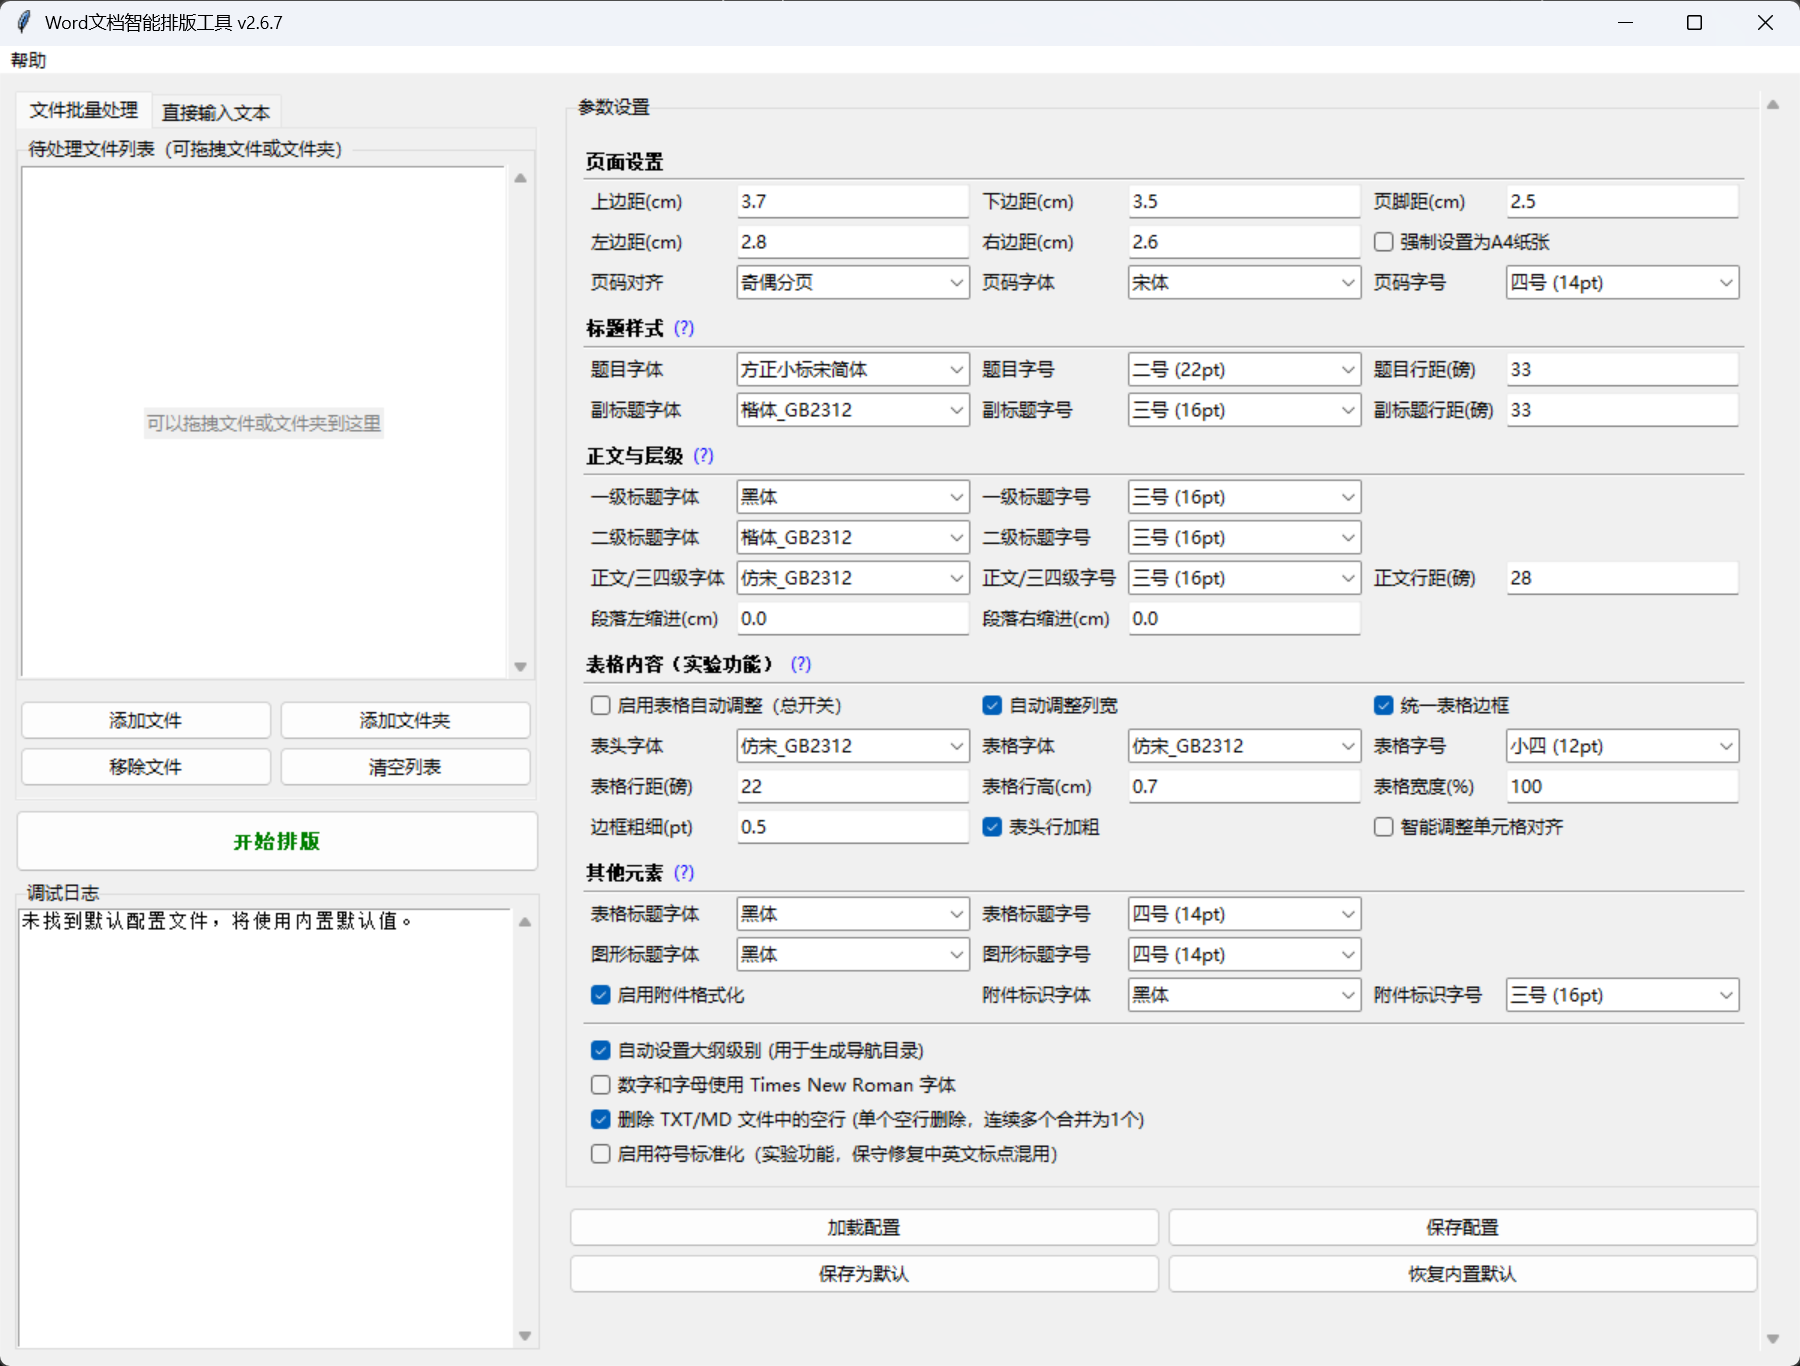
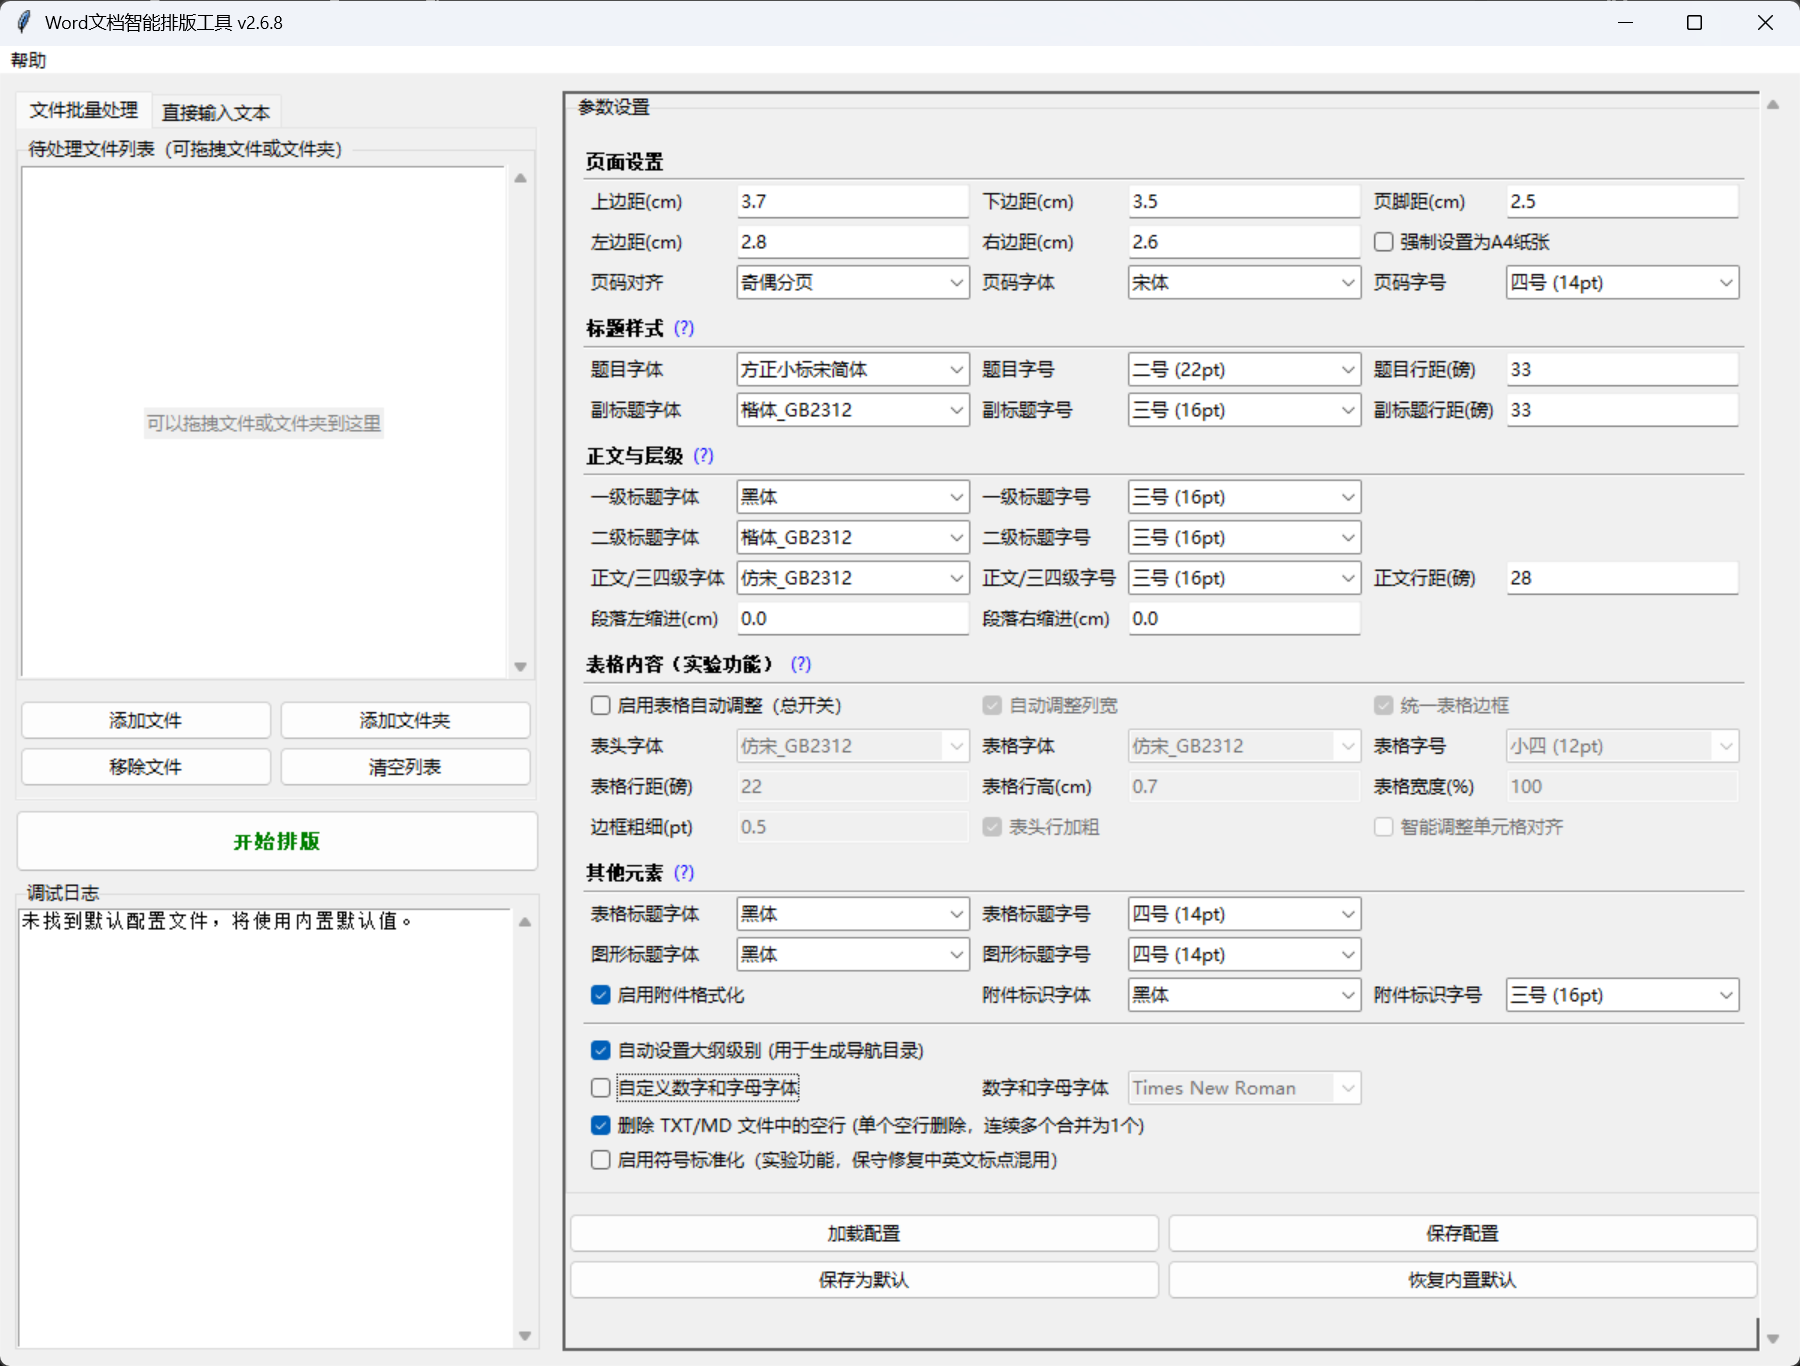
Add files via upload

diff --git a/wfp.py b/wfp.py
@@ -1,5 +1,5 @@
 import tkinter as tk
-from tkinter import ttk, filedialog, messagebox, scrolledtext, Menu
+from tkinter import ttk, filedialog, messagebox, scrolledtext, Menu, font as tkfont
 import json
 import os
 import re
@@ -570,7 +570,8 @@ class WordProcessor:
         rFonts = rPr.get_or_add_rFonts()
         rFonts.set(qn('w:eastAsia'), font_name)
         # 根据配置决定西文字体（数字、字母）
-        en_font = 'Times New Roman' if self.config.get('use_times_new_roman', False) else font_name
+        en_font = self.config.get('english_font') if self.config.get('use_custom_english_font', False) else font_name
+        en_font = en_font or font_name
         run.font.name = en_font
         rFonts.set(qn('w:ascii'), en_font)
         rFonts.set(qn('w:hAnsi'), en_font)
@@ -1491,7 +1492,7 @@ class WordProcessor:
 class WordFormatterGUI:
     def __init__(self, master):
         self.master = master
-        master.title("Word文档智能排版工具 v2.6.7")
+        master.title("Word文档智能排版工具 v2.6.8")
         master.geometry("1200x860")
         master.minsize(1200, 860)
 
@@ -1514,7 +1515,7 @@ class WordFormatterGUI:
             'title_line_spacing': 33, 'subtitle_line_spacing': 33,
             'left_indent_cm': 0.0, 'right_indent_cm': 0.0,
             'set_outline': True, 'enable_attachment_formatting': True,
-            'force_a4': False, 'use_times_new_roman': False,
+            'force_a4': False, 'use_custom_english_font': False, 'english_font': 'Times New Roman',
             'remove_blank_lines': True, 'normalize_punctuation': False,
             'enable_table_formatting': False, 'table_header_font': '仿宋_GB2312',
             'table_font': '仿宋_GB2312',
@@ -1523,18 +1524,25 @@ class WordFormatterGUI:
             'table_header_bold': True, 'table_smart_align': False,
             'table_unified_borders': True, 'table_border_size_pt': 0.5
         }
-        self.font_options = {
+        self.font_separator = '── 已安装字体 ──'
+        self.installed_fonts = self._get_installed_fonts()
+        preset_font_options = {
             'title': ['方正小标宋简体', '方正小标宋_GBK', '华文中宋'], 'h1': ['黑体', '方正黑体_GBK', '方正黑体简体', '华文黑体'],
             'h2': ['楷体_GB2312', '方正楷体_GBK', '楷体', '方正楷体简体', '华文楷体'],
             'body': ['仿宋_GB2312', '方正仿宋_GBK', '仿宋', '方正仿宋简体', '华文仿宋'], 'page_number': ['宋体', 'Times New Roman'],
             'table_caption': ['黑体', '宋体', '仿宋_GB2312'], 'figure_caption': ['黑体', '宋体', '仿宋_GB2312'], 'attachment': ['黑体', '宋体', '仿宋_GB2312'],
             'subtitle': ['楷体_GB2312', '方正楷体_GBK', '楷体', '方正楷体简体', '华文楷体'],
-            'table': ['仿宋_GB2312', '宋体', '黑体', '楷体_GB2312', '方正仿宋_GBK', '仿宋']
+            'table': ['仿宋_GB2312', '宋体', '黑体', '楷体_GB2312', '方正仿宋_GBK', '仿宋'],
+            'english': ['Times New Roman']
+        }
+        self.font_options = {
+            key: self._with_installed_fonts(options)
+            for key, options in preset_font_options.items()
         }
         self.set_outline_var = tk.BooleanVar(value=self.default_params['set_outline'])
         self.enable_attachment_var = tk.BooleanVar(value=self.default_params['enable_attachment_formatting'])
         self.force_a4_var = tk.BooleanVar(value=self.default_params['force_a4'])
-        self.use_times_new_roman_var = tk.BooleanVar(value=self.default_params['use_times_new_roman'])
+        self.use_custom_english_font_var = tk.BooleanVar(value=self.default_params['use_custom_english_font'])
         self.remove_blank_lines_var = tk.BooleanVar(value=self.default_params['remove_blank_lines'])
         self.normalize_punctuation_var = tk.BooleanVar(value=self.default_params['normalize_punctuation'])
         self.enable_table_var = tk.BooleanVar(value=self.default_params['enable_table_formatting'])
@@ -1543,6 +1551,8 @@ class WordFormatterGUI:
         self.table_smart_align_var = tk.BooleanVar(value=self.default_params['table_smart_align'])
         self.table_unified_borders_var = tk.BooleanVar(value=self.default_params['table_unified_borders'])
         self.entries = {}
+        self.attachment_option_widgets = []
+        self.table_option_widgets = []
         
         self.default_config_path = "default_config.json"
         
@@ -1551,6 +1561,95 @@ class WordFormatterGUI:
         self.load_initial_config()
 
         self.master.after(250, self.set_initial_pane_position)
+
+    def _get_installed_fonts(self):
+        try:
+            fonts = tkfont.families(self.master)
+        except tk.TclError:
+            return []
+
+        unique_fonts = {
+            font.strip()
+            for font in fonts
+            if font and font.strip() and not font.strip().startswith('@')
+        }
+        return sorted(unique_fonts, key=str.casefold)
+
+    def _with_installed_fonts(self, preset_fonts):
+        options = []
+        seen = set()
+        for font in preset_fonts:
+            normalized = font.casefold()
+            if normalized not in seen:
+                options.append(font)
+                seen.add(normalized)
+
+        installed_fonts = [
+            font for font in self.installed_fonts
+            if font.casefold() not in seen
+        ]
+        if installed_fonts:
+            options.append(self.font_separator)
+            options.extend(installed_fonts)
+        return options
+
+    def _update_english_font_state(self):
+        combo = self.entries.get('english_font')
+        if combo:
+            combo.configure(state='normal' if self.use_custom_english_font_var.get() else 'disabled')
+
+    def _set_widgets_enabled(self, widgets, enabled):
+        for widget in widgets:
+            if not hasattr(widget, '_enabled_state'):
+                try:
+                    enabled_state = widget.cget('state') or 'normal'
+                    widget._enabled_state = 'normal' if enabled_state == 'disabled' else enabled_state
+                except tk.TclError:
+                    widget._enabled_state = 'normal'
+            try:
+                widget.configure(state=widget._enabled_state if enabled else 'disabled')
+            except tk.TclError:
+                pass
+
+    def _update_attachment_state(self):
+        self._set_widgets_enabled(self.attachment_option_widgets, self.enable_attachment_var.get())
+
+    def _update_table_state(self):
+        self._set_widgets_enabled(self.table_option_widgets, self.enable_table_var.get())
+
+    def _enable_dependent_widgets_for_config_load(self):
+        self._set_widgets_enabled(self.attachment_option_widgets, True)
+        self._set_widgets_enabled(self.table_option_widgets, True)
+        english_font_combo = self.entries.get('english_font')
+        if english_font_combo:
+            english_font_combo.configure(state='normal')
+
+    def _set_widget_value(self, widget, value, is_size=False):
+        previous_state = None
+        try:
+            previous_state = widget.cget('state')
+            if previous_state == 'disabled':
+                widget.configure(state=getattr(widget, '_enabled_state', 'normal'))
+        except tk.TclError:
+            previous_state = None
+
+        try:
+            if is_size and isinstance(widget, ttk.Combobox):
+                display_val = self.font_size_map_rev.get(value, str(value))
+                widget.set(display_val)
+            elif isinstance(widget, ttk.Combobox):
+                widget.set(value)
+                if value != self.font_separator:
+                    widget._last_valid_value = value
+            else:
+                widget.delete(0, tk.END)
+                widget.insert(0, str(value))
+        finally:
+            if previous_state == 'disabled':
+                try:
+                    widget.configure(state='disabled')
+                except tk.TclError:
+                    pass
 
     def set_initial_pane_position(self):
         # 获取窗口总宽度，设置左侧占约30%
@@ -1667,6 +1766,22 @@ class WordFormatterGUI:
             state = 'readonly' if readonly else 'normal'
             combo = ttk.Combobox(params_frame, values=opts, state=state, width=15)
             combo.grid(row=r, column=c+1, sticky=tk.EW, padx=3, pady=2)
+            if self.font_separator in opts:
+                combo._last_valid_value = ''
+
+                def remember_font_value(event, combo=combo):
+                    current = combo.get().strip()
+                    if current and current != self.font_separator:
+                        combo._last_valid_value = current
+
+                def reject_font_separator(event, combo=combo):
+                    if combo.get() == self.font_separator:
+                        combo.set(getattr(combo, '_last_valid_value', ''))
+                    else:
+                        remember_font_value(event, combo)
+
+                combo.bind("<FocusIn>", remember_font_value, add="+")
+                combo.bind("<<ComboboxSelected>>", reject_font_separator, add="+")
             self.entries[var_name] = combo
             return combo
 
@@ -1676,7 +1791,7 @@ class WordFormatterGUI:
             combo.grid(row=r, column=c+1, sticky=tk.EW, padx=3, pady=2)
             self.entries[var_name] = combo
             return combo
-        
+
         def create_section_header(text, help_text, r):
             header_frame = ttk.Frame(params_frame)
             header_frame.grid(row=r, column=0, columnspan=6, sticky='ew', pady=(6, 2))
@@ -1740,21 +1855,32 @@ class WordFormatterGUI:
             "• 默认保留单元格原始对齐方式；勾选智能对齐后，表头/序号/短文本居中，数字靠右，长文本靠左。"
         )
         row = create_section_header("表格内容（实验功能）", table_help, row)
-        ttk.Checkbutton(params_frame, text="启用表格自动调整（总开关）", variable=self.enable_table_var).grid(row=row, column=0, columnspan=2, sticky=tk.W, padx=3, pady=2)
-        ttk.Checkbutton(params_frame, text="自动调整列宽", variable=self.table_auto_col_width_var).grid(row=row, column=2, columnspan=2, sticky=tk.W, padx=3, pady=2)
-        ttk.Checkbutton(params_frame, text="统一表格边框", variable=self.table_unified_borders_var).grid(row=row, column=4, columnspan=2, sticky=tk.W, padx=3, pady=2)
+        ttk.Checkbutton(params_frame, text="启用表格自动调整（总开关）", variable=self.enable_table_var, command=self._update_table_state).grid(row=row, column=0, columnspan=2, sticky=tk.W, padx=3, pady=2)
+        table_auto_col_width_check = ttk.Checkbutton(params_frame, text="自动调整列宽", variable=self.table_auto_col_width_var)
+        table_auto_col_width_check.grid(row=row, column=2, columnspan=2, sticky=tk.W, padx=3, pady=2)
+        table_unified_borders_check = ttk.Checkbutton(params_frame, text="统一表格边框", variable=self.table_unified_borders_var)
+        table_unified_borders_check.grid(row=row, column=4, columnspan=2, sticky=tk.W, padx=3, pady=2)
         row += 1
-        create_combo("表头字体", 'table_header_font', self.font_options['table'], row, 0, readonly=False)
-        create_combo("表格字体", 'table_font', self.font_options['table'], row, 2, readonly=False)
-        create_font_size_combo("表格字号", 'table_size', row, 4)
+        table_header_font_combo = create_combo("表头字体", 'table_header_font', self.font_options['table'], row, 0, readonly=False)
+        table_font_combo = create_combo("表格字体", 'table_font', self.font_options['table'], row, 2, readonly=False)
+        table_size_combo = create_font_size_combo("表格字号", 'table_size', row, 4)
         row += 1
-        create_entry("表格行距(磅)", 'table_line_spacing', row, 0)
-        create_entry("表格行高(cm)", 'table_row_height_cm', row, 2)
-        create_entry("表格宽度(%)", 'table_width_percent', row, 4)
+        table_line_spacing_entry = create_entry("表格行距(磅)", 'table_line_spacing', row, 0)
+        table_row_height_entry = create_entry("表格行高(cm)", 'table_row_height_cm', row, 2)
+        table_width_percent_entry = create_entry("表格宽度(%)", 'table_width_percent', row, 4)
         row += 1
-        create_entry("边框粗细(pt)", 'table_border_size_pt', row, 0)
-        ttk.Checkbutton(params_frame, text="表头行加粗", variable=self.table_header_bold_var).grid(row=row, column=2, columnspan=2, sticky=tk.W, padx=3, pady=2)
-        ttk.Checkbutton(params_frame, text="智能调整单元格对齐", variable=self.table_smart_align_var).grid(row=row, column=4, columnspan=2, sticky=tk.W, padx=3, pady=2)
+        table_border_size_entry = create_entry("边框粗细(pt)", 'table_border_size_pt', row, 0)
+        table_header_bold_check = ttk.Checkbutton(params_frame, text="表头行加粗", variable=self.table_header_bold_var)
+        table_header_bold_check.grid(row=row, column=2, columnspan=2, sticky=tk.W, padx=3, pady=2)
+        table_smart_align_check = ttk.Checkbutton(params_frame, text="智能调整单元格对齐", variable=self.table_smart_align_var)
+        table_smart_align_check.grid(row=row, column=4, columnspan=2, sticky=tk.W, padx=3, pady=2)
+        self.table_option_widgets = [
+            table_auto_col_width_check, table_unified_borders_check,
+            table_header_font_combo, table_font_combo, table_size_combo,
+            table_line_spacing_entry, table_row_height_entry, table_width_percent_entry,
+            table_border_size_entry, table_header_bold_check, table_smart_align_check
+        ]
+        self._update_table_state()
         row += 1
         
         # Section: Other Elements
@@ -1766,9 +1892,11 @@ class WordFormatterGUI:
         create_combo("图形标题字体", 'figure_caption_font', self.font_options['figure_caption'], row, 0, readonly=False)
         create_font_size_combo("图形标题字号", 'figure_caption_size', row, 2)
         row += 1
-        ttk.Checkbutton(params_frame, text="启用附件格式化", variable=self.enable_attachment_var).grid(row=row, column=0, columnspan=2, sticky=tk.W, padx=3, pady=2)
-        create_combo("附件标识字体", 'attachment_font', self.font_options['attachment'], row, 2, readonly=False)
-        create_font_size_combo("附件标识字号", 'attachment_size', row, 4)
+        ttk.Checkbutton(params_frame, text="启用附件格式化", variable=self.enable_attachment_var, command=self._update_attachment_state).grid(row=row, column=0, columnspan=2, sticky=tk.W, padx=3, pady=2)
+        attachment_font_combo = create_combo("附件标识字体", 'attachment_font', self.font_options['attachment'], row, 2, readonly=False)
+        attachment_size_combo = create_font_size_combo("附件标识字号", 'attachment_size', row, 4)
+        self.attachment_option_widgets = [attachment_font_combo, attachment_size_combo]
+        self._update_attachment_state()
         row += 1
 
         # Section: Global Options
@@ -1776,7 +1904,14 @@ class WordFormatterGUI:
         row += 1
         ttk.Checkbutton(params_frame, text="自动设置大纲级别 (用于生成导航目录)", variable=self.set_outline_var).grid(row=row, columnspan=6, sticky=tk.W, padx=3)
         row += 1
-        ttk.Checkbutton(params_frame, text="数字和字母使用 Times New Roman 字体", variable=self.use_times_new_roman_var).grid(row=row, columnspan=6, sticky=tk.W, padx=3)
+        ttk.Checkbutton(
+            params_frame,
+            text="自定义数字和字母字体",
+            variable=self.use_custom_english_font_var,
+            command=self._update_english_font_state
+        ).grid(row=row, column=0, columnspan=2, sticky=tk.W, padx=3)
+        create_combo("数字和字母字体", 'english_font', self.font_options['english'], row, 2, readonly=False)
+        self._update_english_font_state()
         row += 1
         ttk.Checkbutton(params_frame, text="删除 TXT/MD 文件中的空行 (单个空行删除，连续多个合并为1个)", variable=self.remove_blank_lines_var).grid(row=row, columnspan=6, sticky=tk.W, padx=3)
         row += 1
@@ -1837,11 +1972,19 @@ class WordFormatterGUI:
             self.load_defaults()
 
     def _apply_config(self, loaded_config):
+        loaded_config = dict(loaded_config)
+        if 'use_custom_english_font' not in loaded_config and loaded_config.get('use_times_new_roman'):
+            loaded_config['use_custom_english_font'] = True
+            loaded_config.setdefault('english_font', 'Times New Roman')
         loaded_config = {**self.default_params, **loaded_config}
+        for key, default_value in self.default_params.items():
+            value = loaded_config.get(key)
+            if value is None or (isinstance(value, str) and not value.strip()):
+                loaded_config[key] = default_value
         self.set_outline_var.set(loaded_config.get('set_outline', True))
         self.enable_attachment_var.set(loaded_config.get('enable_attachment_formatting', True))
         self.force_a4_var.set(loaded_config.get('force_a4', False))
-        self.use_times_new_roman_var.set(loaded_config.get('use_times_new_roman', False))
+        self.use_custom_english_font_var.set(loaded_config.get('use_custom_english_font', False))
         self.remove_blank_lines_var.set(loaded_config.get('remove_blank_lines', True))
         self.normalize_punctuation_var.set(loaded_config.get('normalize_punctuation', False))
         self.enable_table_var.set(loaded_config.get('enable_table_formatting', False))
@@ -1851,22 +1994,20 @@ class WordFormatterGUI:
         self.table_unified_borders_var.set(loaded_config.get('table_unified_borders', True))
         boolean_keys = [
             'set_outline', 'enable_attachment_formatting', 'force_a4',
-            'use_times_new_roman', 'remove_blank_lines', 'normalize_punctuation',
+            'use_custom_english_font', 'use_times_new_roman',
+            'remove_blank_lines', 'normalize_punctuation',
             'enable_table_formatting', 'table_auto_col_width', 'table_header_bold',
             'table_smart_align', 'table_unified_borders'
         ]
+        self._enable_dependent_widgets_for_config_load()
         for key, value in loaded_config.items():
             if key in boolean_keys: continue
             widget = self.entries.get(key)
             if widget:
-                if "_size" in key and isinstance(widget, ttk.Combobox):
-                    display_val = self.font_size_map_rev.get(value, str(value))
-                    widget.set(display_val)
-                elif isinstance(widget, ttk.Combobox):
-                    widget.set(value)
-                else:
-                    widget.delete(0, tk.END)
-                    widget.insert(0, str(value))
+                self._set_widget_value(widget, value, is_size=("_size" in key))
+        self._update_english_font_state()
+        self._update_attachment_state()
+        self._update_table_state()
 
     def load_defaults(self):
         self._apply_config(self.default_params)
@@ -1875,6 +2016,11 @@ class WordFormatterGUI:
         config = {}
         for key, widget in self.entries.items():
             value = widget.get().strip()
+            if isinstance(widget, ttk.Combobox) and value == self.font_separator:
+                value = getattr(widget, '_last_valid_value', '').strip()
+            if value == '' and key in self.default_params:
+                config[key] = self.default_params[key]
+                continue
             if "_size" in key and isinstance(widget, ttk.Combobox):
                 if value in self.font_size_map:
                     config[key] = self.font_size_map[value]
@@ -1889,7 +2035,7 @@ class WordFormatterGUI:
         config['set_outline'] = self.set_outline_var.get()
         config['enable_attachment_formatting'] = self.enable_attachment_var.get()
         config['force_a4'] = self.force_a4_var.get()
-        config['use_times_new_roman'] = self.use_times_new_roman_var.get()
+        config['use_custom_english_font'] = self.use_custom_english_font_var.get()
         config['remove_blank_lines'] = self.remove_blank_lines_var.get()
         config['normalize_punctuation'] = self.normalize_punctuation_var.get()
         config['enable_table_formatting'] = self.enable_table_var.get()
@@ -1988,7 +2134,7 @@ class WordFormatterGUI:
         help_text_widget = scrolledtext.ScrolledText(help_win, wrap=tk.WORD, state='disabled')
         help_text_widget.pack(fill=tk.BOTH, expand=True, padx=10, pady=10)
         help_content = """
-Word文档智能排版工具 v2.6.7 - 使用说明
+Word文档智能排版工具 v2.6.8 - 使用说明
 
 本工具旨在提供一键式的专业文档排版体验，支持批量处理和高度自定义。
 